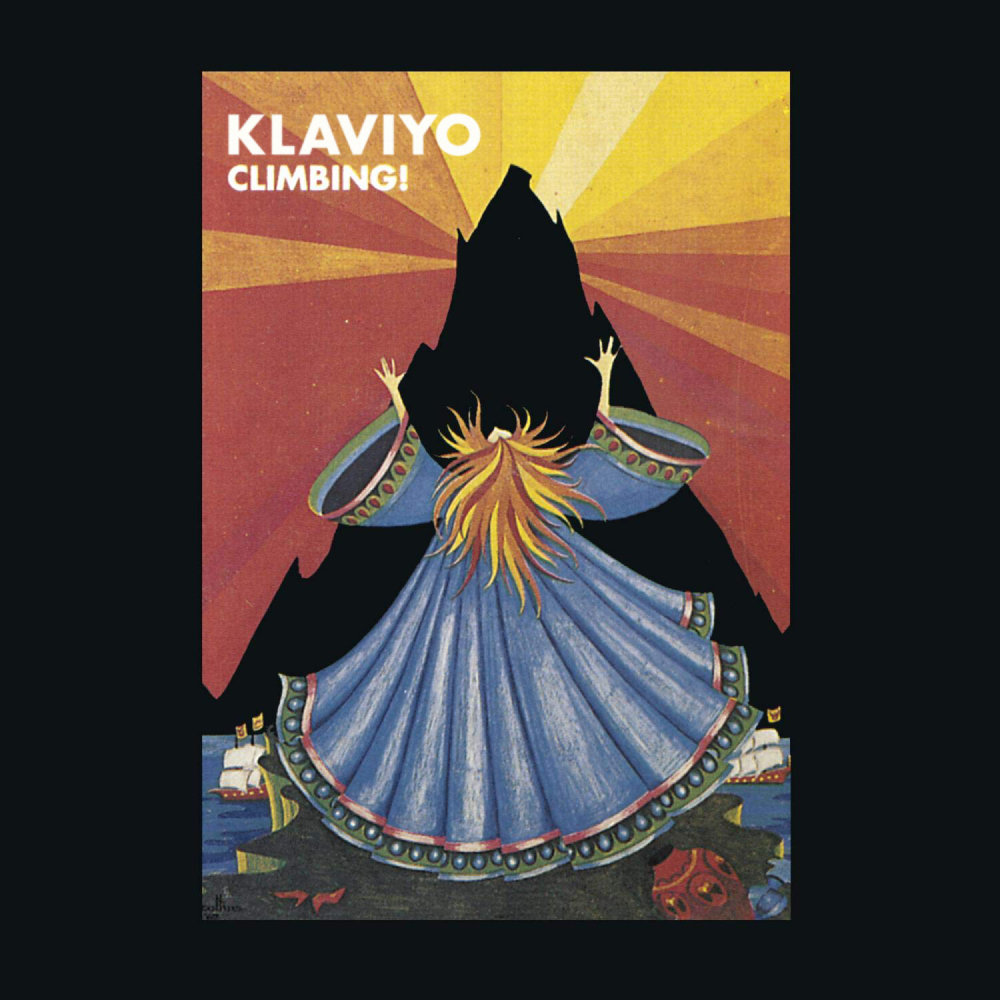
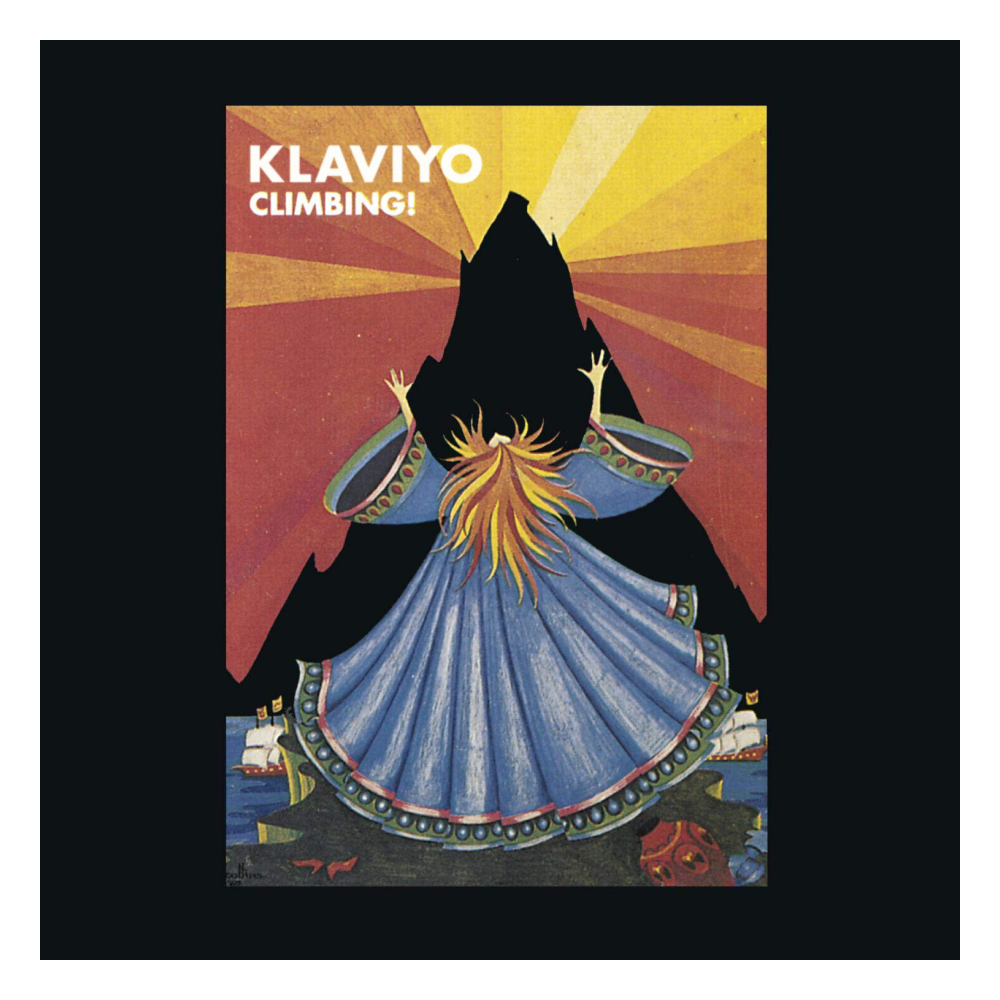
update album styles

diff --git a/styles.css b/styles.css
@@ -33,16 +33,19 @@ footer span {
 } 
 
 .album {
+  box-sizing: border-box;
   display: block;
-  max-width: 500px;
+  max-width: 532px;
   width: 100%;
   margin:  0 auto;
   display: none;
+  padding: 16px;
 }
 
 .album img {
   display: block;
   width: 100%;
+  filter: drop-shadow(0px 18px 34px rgba(0, 0, 0, 0.9));
 }
 
 .hero {
@@ -90,7 +93,7 @@ footer span {
 .overlay {
   -webkit-backdrop-filter: blur(2px);
   backdrop-filter: blur(2px);
-  background: rgba(0, 0, 0, 0.8);
+  background: rgba(30, 26, 26, 0.8);
   display: none;
   position: absolute;
     top: 0px;
